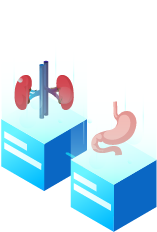
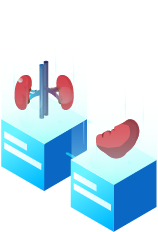
upgrade

diff --git a/src/components/menu.vue b/src/components/menu.vue
@@ -2,11 +2,16 @@
   <div id="menu">
     <div id="position">
       <img class="logo" src="../assets/images/logo.png" alt="">
-      <router-link class="link1" to="/heart">心</router-link>
-      <router-link class="link2" to="/liver">肝</router-link>
-      <router-link class="link3" to="/spleen">脾</router-link>
-      <router-link class="link4" to="/lungs">肺</router-link>
-      <router-link class="link5" to="/kidney">肾</router-link>
+
+      <img class="shadow1" src="../assets/images/menu/shadow1.png" alt="">
+      <img class="shadow2" src="../assets/images/menu/shadow2.png" alt="">
+
+      <img class="line1" src="../assets/images/menu/line1.png" alt="">
+      <img class="line2" src="../assets/images/menu/line2.png" alt="">
+      <img class="line3" src="../assets/images/menu/line3.png" alt="">
+      <img class="line4" src="../assets/images/menu/line4.png" alt="">
+      <img class="line5" src="../assets/images/menu/line5.png" alt="">
+      <img class="line6" src="../assets/images/menu/line6.png" alt="">
 
       <img class="image1" src="../assets/images/menu/image1.png" alt="">
       <img class="image2" src="../assets/images/menu/image2.png" alt="">
@@ -16,18 +21,15 @@
       <img class="image6" src="../assets/images/menu/image6.png" alt="">
       <img class="image7" src="../assets/images/menu/image7.png" alt="">
 
-
-      <img class="shadow1" src="../assets/images/menu/shadow1.png" alt="">
-      <img class="shadow2" src="../assets/images/menu/shadow2.png" alt="">
-
+      <router-link class="link1" to="/heart"></router-link>
+      <router-link class="link2" to="/liver"></router-link>
+      <router-link class="link3" to="/spleen"></router-link>
+      <router-link class="link4" to="/lungs"></router-link>
+      <router-link class="link5" to="/kidney"></router-link>
 
     </div>
   </div>
 </template>
-
-
-
-
 
 <style lang="scss">
   #menu {
@@ -58,26 +60,35 @@
       left: 1100px;
     }
 
+
     .image2 {
       position: absolute;
       top: 230px;
       left: 1000px;
     }
+
+
     .image3 {
       position: absolute;
       top: 290px;
       left: 875px;
     }
+
+
     .image4 {
       position: absolute;
       top: 345px;
       left: 410px;
     }
+
+
     .image5 {
       position: absolute;
-      top: 470px;
-      left: 685px;
+      top: 435px;
+      left: 745px;
     }
+
+
     .image6 {
       width: 10%;
       position: absolute;
@@ -102,6 +113,95 @@
       position: absolute;
       top: 175px;
       left: 342px;
+    }
+
+
+    .line1 {
+      width: 120px;
+      position: absolute;
+      top: 240px;
+      left: 1120px;
+    }
+    .line2 {
+      width: 80px;
+      position: absolute;
+      top: 305px;
+      left: 1030px;
+    }
+    .line3 {
+      width: 435px;
+      position: absolute;
+      top: 364px;
+      left: 575px;
+    }
+    .line4 {
+      position: absolute;
+      top: 480px;
+      left: 370px;
+      width: 390px;
+    }
+    .line5 {
+      position: absolute;
+      top: 665px;
+      left: 375px;
+      width: 80px;
+    }
+    .line6 {
+      position: absolute;
+      top: 775px;
+      left: 175px;
+      width: 100px;
+    }
+
+    .link1 {
+      display: block;
+      width: 100px;
+      height: 100px;
+      cursor: pointer;
+      //border: 1px solid #fff;
+      position: absolute;
+      top: 310px;
+      left: 930px;
+    }
+    .link2 {
+      display: block;
+      width: 100px;
+      height: 100px;
+      cursor: pointer;
+      //border: 1px solid #fff;
+      position: absolute;
+      top: 375px;
+      left: 465px;
+    }
+    .link3 {
+      display: block;
+      width: 80px;
+      height: 100px;
+      cursor: pointer;
+      //border: 1px solid #fff;
+      position: absolute;
+      top: 610px;
+      left: 455px;
+    }
+    .link4 {
+      display: block;
+      width: 100px;
+      height: 100px;
+      cursor: pointer;
+      //border: 1px solid #fff;
+      position: absolute;
+      top: 515px;
+      left: 810px;
+    }
+    .link5 {
+      display: block;
+      width: 80px;
+      height: 100px;
+      cursor: pointer;
+      //border: 1px solid #fff;
+      position: absolute;
+      top: 565px;
+      left: 390px;
     }
   }
 </style>
